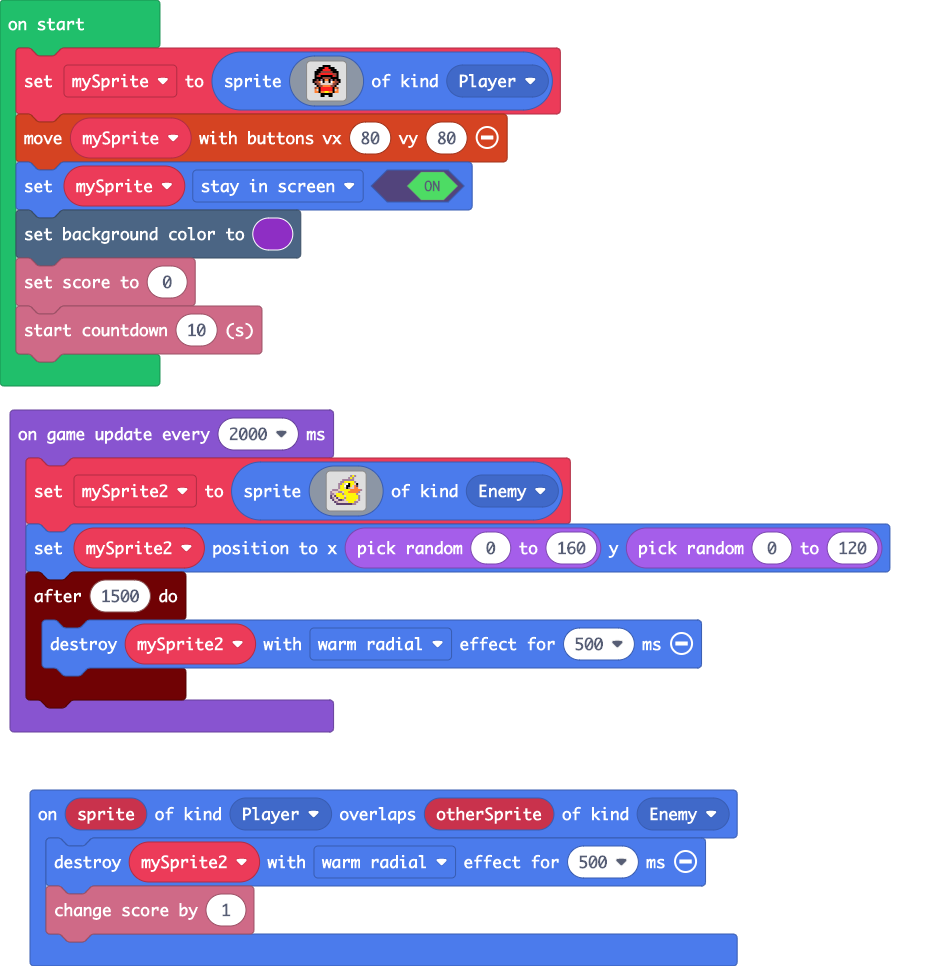
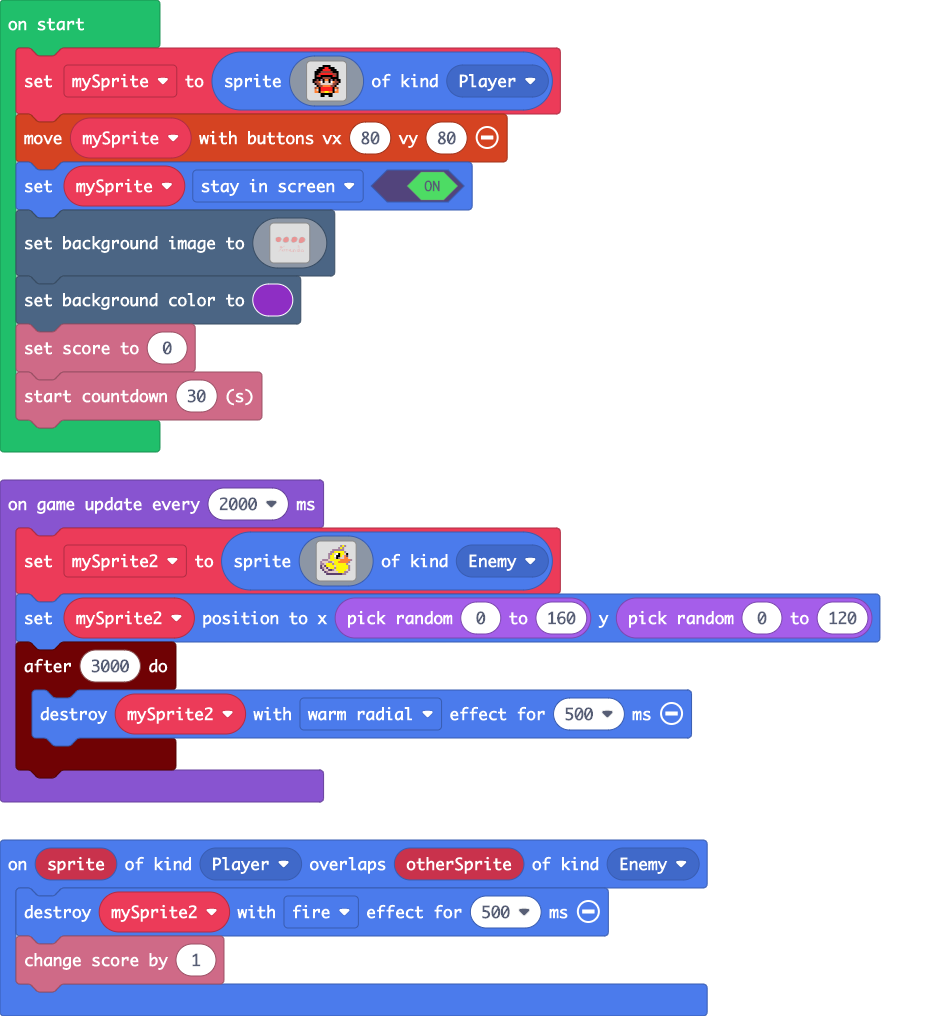
mejoras de la interfaz y cambiod e nombre

diff --git a/main.ts b/main.ts
@@ -1,5 +1,5 @@
 sprites.onOverlap(SpriteKind.Player, SpriteKind.Enemy, function (sprite, otherSprite) {
-    mySprite2.destroy(effects.warmRadial, 500)
+    mySprite2.destroy(effects.fire, 500)
     info.changeScoreBy(1)
 })
 let mySprite2: Sprite = null
@@ -23,9 +23,131 @@ let mySprite = sprites.create(img`
     `, SpriteKind.Player)
 controller.moveSprite(mySprite, 80, 80)
 mySprite.setFlag(SpriteFlag.StayInScreen, true)
+scene.setBackgroundImage(img`
+    ................................................................................................................................................................
+    ................................................................................................................................................................
+    ................................................................................................................................................................
+    ................................................................................................................................................................
+    ................................................................................................................................................................
+    ................................................................................................................................................................
+    ................................................................................................................................................................
+    ................................................................................................................................................................
+    ................................................................................................................................................................
+    ................................................................................................................................................................
+    ................................................................................................................................................................
+    ................................................................................................................................................................
+    ................................................................................................................................................................
+    ................................................................................................................................................................
+    ................................................................................................................................................................
+    ................................................................................................................................................................
+    ................................................................................................................................................................
+    ................................................................................................................................................................
+    ................................................................................................................................................................
+    ................................................................................................................................................................
+    ................................................................................................................................................................
+    ................................................................................................................................................................
+    ................................................................................................................................................................
+    ................................................................................................................................................................
+    ................................................................................................................................................................
+    ................................................................................................................................................................
+    ................................................................................................................................................................
+    ................................................................................................................................................................
+    ..............................................................66666.................................6666666.....................................................
+    .....................66666666..............................6666622266............................6666662222666.............................66666................
+    ..................6662222222266...........................622222222226.........................66222222222222266.........................662222666..............
+    ................66662222222222266.......................662222222222226......................662222222222222222266....................6662222222226666..........
+    ..............66222222222222222226....................6622222222222222266...................66222222222222222222226..................622222222222222266.........
+    ...........66622222222222222222226..................662222222222222222226...................622222222222222222222226...............662222222222222222226........
+    ..........66222222222222222222222266................6222222222222222222226.................62222222222222222222222226..............6222222222222222222226.......
+    ..........62222222222222222222222226...............62222222222222222222226................662222222222222222222222226.............622222222222222222222226......
+    .........6222222222222222222222222226............66222222222222222222222226...............6222222222222222222222222226...........62222222222222222222222226.....
+    .........62222222222222222222222222226...........62222222222222222222222226...............6222222222222222222222222226...........622222222222222222222222266....
+    .........62222222222222222222222222226..........662222222222222222222222226..............62222222222222222222222222226..........6222222222222222222222222226....
+    .........62222222222222222222222222226..........6222222222222222222222222226.............62222222222222222222222222226.........622222222222222222222222222266...
+    .........62222222222222222222222222226.........62222222222222222222222222226............622222222222222222222222222226.........622222222222222222222222222226...
+    .........62222222222222222222222222226.........62222222222222222222222222226............622222222222222222222222222226........6622222222222222222222222222226...
+    .........62222222222222222222222222226.........62222222222222222222222222226............622222222222222222222222222226........6222222222222222222222222222226...
+    .........62222222222222222222222222226........622222222222222222222222222226............622222222222222222222222222226........6222222222222222222222222222226...
+    .........6222222222222222222222222226.........622222222222222222222222222226...........622222222222222222222222222226.........6222222222222222222222222222226...
+    .........6222222222222222222222222226.........622222222222222222222222222226...........622222222222222222222222222226.........6222222222222222222222222222226...
+    ..........62222222222222222222222226..........62222222222222222222222222226............622222222222222222222222222226........62222222222222222222222222222226...
+    ..........62222222222222222222222226..........62222222222222222222222222226............62222222222222222222222222226.........6222222222222222222222222222226....
+    ..........6222222222222222222222226...........62222222222222222222222222226............62222222222222222222222222226.........6222222222222222222222222222226....
+    ...........622222222222222222222226...........6222222222222222222222222226.............6222222222222222222222222226..........622222222222222222222222222226.....
+    ............6222222222222222222226............6622222222222222222222222226..............62222222222222222222222226...........622222222222222222222222222226.....
+    .............62222222222222222226..............62222222222222222222222226...............62222222222222222222222266..........6222222222222222222222222222266.....
+    .............66222222222222222226..............6222222222222222222222226................622222222222222222222226............62222222222222222222222222226.......
+    ..............622222222222222666................622222222222222222222266.................62222222222222222222266............62222222222222222222222222266.......
+    ...............66662222222226....................6222222222222222222226...................622222222222222222666..............622222222222222222222222266........
+    ..................66666666666....................666222222222222222266.....................62222222222222266.................6222222222222222222222266..........
+    ...................................................66622222222266666........................62222222226666...................62222222222222222222266............
+    .....................................................6666666666..............................666666666.......................622222222222222222266..............
+    ..............................................................................................................................662222222222222666................
+    ...............................................................................................................................66222222222666...................
+    .................................................................................................................................6666666666.....................
+    ................................................................................................................................................................
+    ................................................................................................................................................................
+    ................................................................................................................................................................
+    ................................................................................................................................................................
+    ................................................................................................................................................................
+    ................................................................................................................................................................
+    ................................................................................................................................................................
+    ................................................................................................................................................................
+    ................................................................................................................................................................
+    ...........................................................................................................................2....................................
+    ...........................................................................................................................2....................................
+    ...........................................................................................................................22...................................
+    ......................................................2....................................................................22...................................
+    ......................................................2....................................................................2.2..................................
+    ....................................................22.....................................................................2.2..................................
+    ..................................2222.............2.......................................................................2.2..................................
+    .................................22..2..........222........................................................................2.2..................................
+    .................................2...22........2...........................................................................2.2..................................
+    ................................22....2.......2............................................................................2.2..................................
+    ................................2.....2......2.............................................................................2.2..................................
+    ................................2....2.....22...............................................................................22..................................
+    ................................2....2...22.................................................................................22..................................
+    ................................2....2..22..................................................................................22..................................
+    ................................22.22222....................................................................................22..................................
+    .................................22.2........................................................................................2..................................
+    ....................................2........................................................................................2..................................
+    ....................................2........................................................................................2..................................
+    ...................................2.........................................................................................2..................................
+    ..................................2..........................................................................................2..................................
+    ..................................2...........................22222..........................................................2..................................
+    .................................2..................2222......2....2.............2...........................................2..................................
+    ................................22..................2..2......2.....22..........2222...........2.............................22.............2...................
+    ...............................2..........2222.....2.........2.......2.........2...22..........2.....222..............22.222222............222..................
+    ...............................2.........2...2.....2.........2........2........2...22...........2..222.222...........2...2...22...........2..22222..............
+    ...............................2........2...22....22........22........2.......22...22...........2..2......2..........2.......22..........2.......22.............
+    ..............................2.........2..2......22........22........2.......2....22...........2.2........2........2.......2.2..........2.........2............
+    .............................2..........2.22......22........2........2........2....22...........2.2........2........2.......2.22.........2.........2............
+    ............................2...........22........2.........2........2........2....22...........2.2........2........2.......2..2.........2.........2............
+    ...........................2.............2........2.........2........2........22...22...........2.2.........2........2......2..2.........2.........2............
+    ..........................2...............22222...2.........2........2.........2222.2...........2.2.........2........2.....2...2.........2.........2............
+    .........................2....................2...2.........2........2..............2......2....2.2.........2.........2...22....2........2.........2............
+    ........................2...................................2.......................22...22......22.........2.........22222.....22.......2........22............
+    ........................2............................................................2222........22.........2...................22........22.....22.............
+    .................................................................................................22.........2...............................222222..............
+    ..................................................................................................2.............................................................
+    ................................................................................................................................................................
+    ................................................................................................................................................................
+    ................................................................................................................................................................
+    ................................................................................................................................................................
+    ................................................................................................................................................................
+    ................................................................................................................................................................
+    ................................................................................................................................................................
+    ................................................................................................................................................................
+    ................................................................................................................................................................
+    ................................................................................................................................................................
+    ................................................................................................................................................................
+    ................................................................................................................................................................
+    ................................................................................................................................................................
+    ................................................................................................................................................................
+    `)
 scene.setBackgroundColor(10)
 info.setScore(0)
-info.startCountdown(10)
+info.startCountdown(30)
 game.onUpdateInterval(2000, function () {
     mySprite2 = sprites.create(img`
         . . . . . . . . . . b 5 b . . . 
@@ -46,7 +168,7 @@ game.onUpdateInterval(2000, function () {
         . . . . . . . . . . . . . . . . 
         `, SpriteKind.Enemy)
     mySprite2.setPosition(randint(0, 160), randint(0, 120))
-    timer.after(1500, function () {
+    timer.after(3000, function () {
         mySprite2.destroy(effects.warmRadial, 500)
     })
 })
